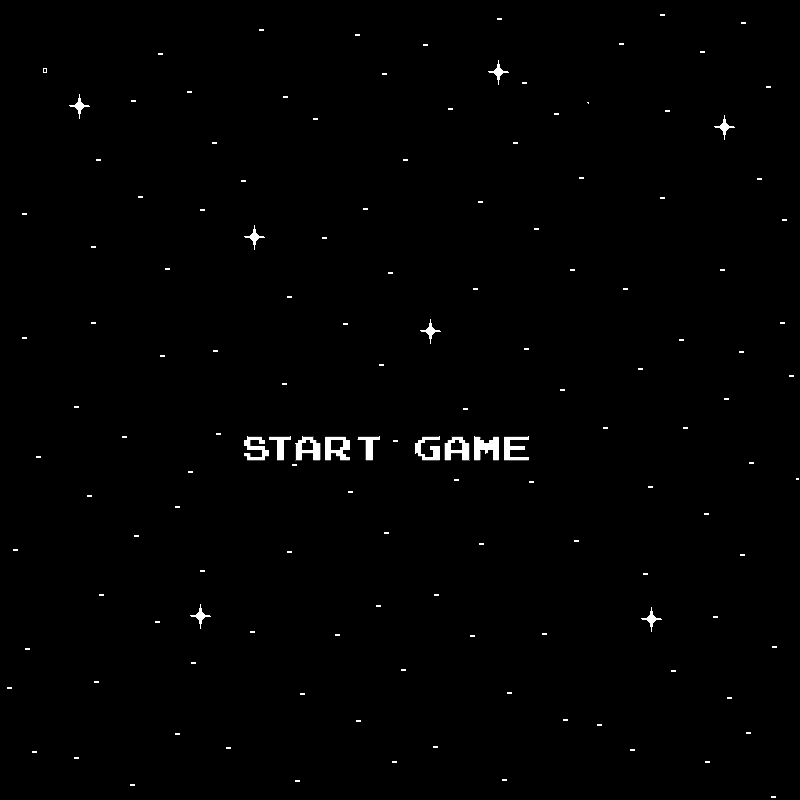
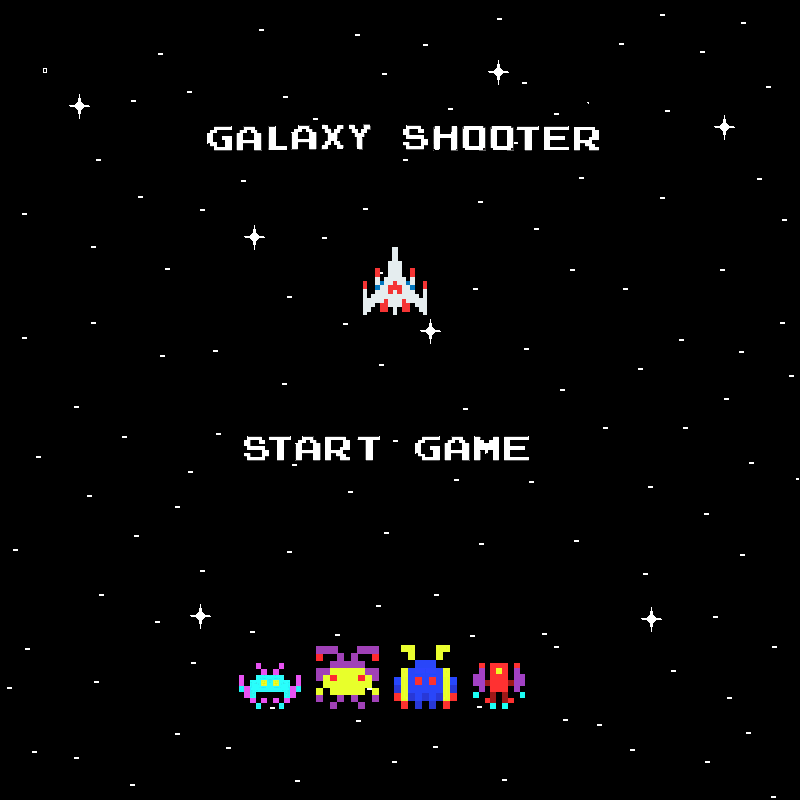
Updated

diff --git a/src/entity/Enemy.java b/src/entity/Enemy.java
@@ -1,26 +1,64 @@
 package entity;
 
+import org.apache.batik.dom.util.XLinkSupport;
+
 import javax.imageio.ImageIO;
+import java.awt.*;
+import java.awt.image.BufferedImage;
 import java.io.IOException;
 import java.util.Objects;
 
 public class Enemy extends Entity{
 
-    public Enemy(){
+    BufferedImage Enemy;
+    boolean Alive;
+
+    public Enemy(int EnemyNum, int X, int Y){
+
+        this.X = X;
+        this.Y = Y;
+
+        Alive = true;
 
         speed = 1;
-        getEnemies();
+        getEnemies(EnemyNum);
     }
 
-    public void getEnemies(){
-
-        try{
-            Enemy1 = ImageIO.read(Objects.requireNonNull(getClass().getResourceAsStream("/Enemies/APCS_Final_Enemy1.png")));
-            Enemy2 = ImageIO.read(Objects.requireNonNull(getClass().getResourceAsStream("/Enemies/APCS_Final_Enemy2.png")));
-            Enemy3 = ImageIO.read(Objects.requireNonNull(getClass().getResourceAsStream("/Enemies/APCS_Final_Enemy3.png")));
-        }catch(IOException e){
-            e.printStackTrace();
+    public void getEnemies(int EnemyNum){
+        if(EnemyNum == 1) {
+            try {
+                Enemy = ImageIO.read(Objects.requireNonNull(getClass().getResourceAsStream("/Enemies/APCS_Final_Enemy1.png")));
+            } catch (IOException e) {
+                e.printStackTrace();
+            }
         }
-
+        if(EnemyNum == 2) {
+            try {
+                Enemy = ImageIO.read(Objects.requireNonNull(getClass().getResourceAsStream("/Enemies/APCS_Final_Enemy2.png")));
+            } catch (IOException e) {
+                e.printStackTrace();
+            }
+        }
+        if(EnemyNum == 3) {
+            try {
+                Enemy = ImageIO.read(Objects.requireNonNull(getClass().getResourceAsStream("/Enemies/APCS_Final_Enemy3.png")));
+            } catch (IOException e) {
+                e.printStackTrace();
+            }
+        }
+        if(EnemyNum == 4) {
+            try {
+                Enemy = ImageIO.read(Objects.requireNonNull(getClass().getResourceAsStream("/Enemies/APCS_Final_Enemy4.png")));
+            } catch (IOException e) {
+                e.printStackTrace();
+            }
+        }
     }
+
+    public void draw(Graphics2D g2d) {
+        if(Alive){
+            g2d.drawImage(Enemy, X, Y, 60, 60, null);
+        }
+    }
+
 }

diff --git a/src/Main/EnemyGrid.java b/src/Main/EnemyGrid.java
@@ -1,0 +1,38 @@
+package Main;
+
+import entity.Enemy;
+
+import java.awt.*;
+import java.util.Random;
+
+public class EnemyGrid {
+
+    public Enemy[][] enemies;
+    Random random = new Random();
+
+    public EnemyGrid(){
+
+        enemies = new Enemy[3][8];
+
+        for(int x = 0; x<enemies.length; x++){
+            for(int y = 0; y<enemies[0].length; y++){
+
+                enemies[x][y] = new Enemy(1,50+(x*80),20+(y*80));
+
+            }
+        }
+
+    }
+
+    public void drawGrid(Graphics2D g2d){
+        if(GamePanel.Running){
+            for(int x = 0; x<enemies.length; x++){
+                for(int y = 0; y<enemies[0].length; y++){
+
+                    enemies[x][y].draw(g2d);
+                }
+            }
+        }
+    }
+
+}

diff --git a/src/entity/Entity.java b/src/entity/Entity.java
@@ -5,7 +5,7 @@ import java.awt.image.BufferedImage;
 public class Entity {
 
     public BufferedImage ship;
-    public BufferedImage Enemy1,Enemy2,Enemy3;
+    //public BufferedImage Enemy1,Enemy2,Enemy3,Enemy4;
     public BufferedImage map, StartScreen;
     public BufferedImage Missile;
     public int X,Y;

diff --git a/src/Main/GamePanel.java b/src/Main/GamePanel.java
@@ -108,8 +108,6 @@ public class GamePanel extends JPanel implements Runnable, ActionListener {
 
         map.draw(g2);
 
-      //  missile.draw(g2);
-
         ship.draw(g2);
 
         g2.dispose();

diff --git a/src/entity/Ship.java b/src/entity/Ship.java
@@ -16,6 +16,7 @@ public class Ship extends Entity{
     boolean missileFired = false;
     Missile missile;
 
+
     public Ship(KeyHandler keyH){
         X = 365;
         this.keyH = keyH;
